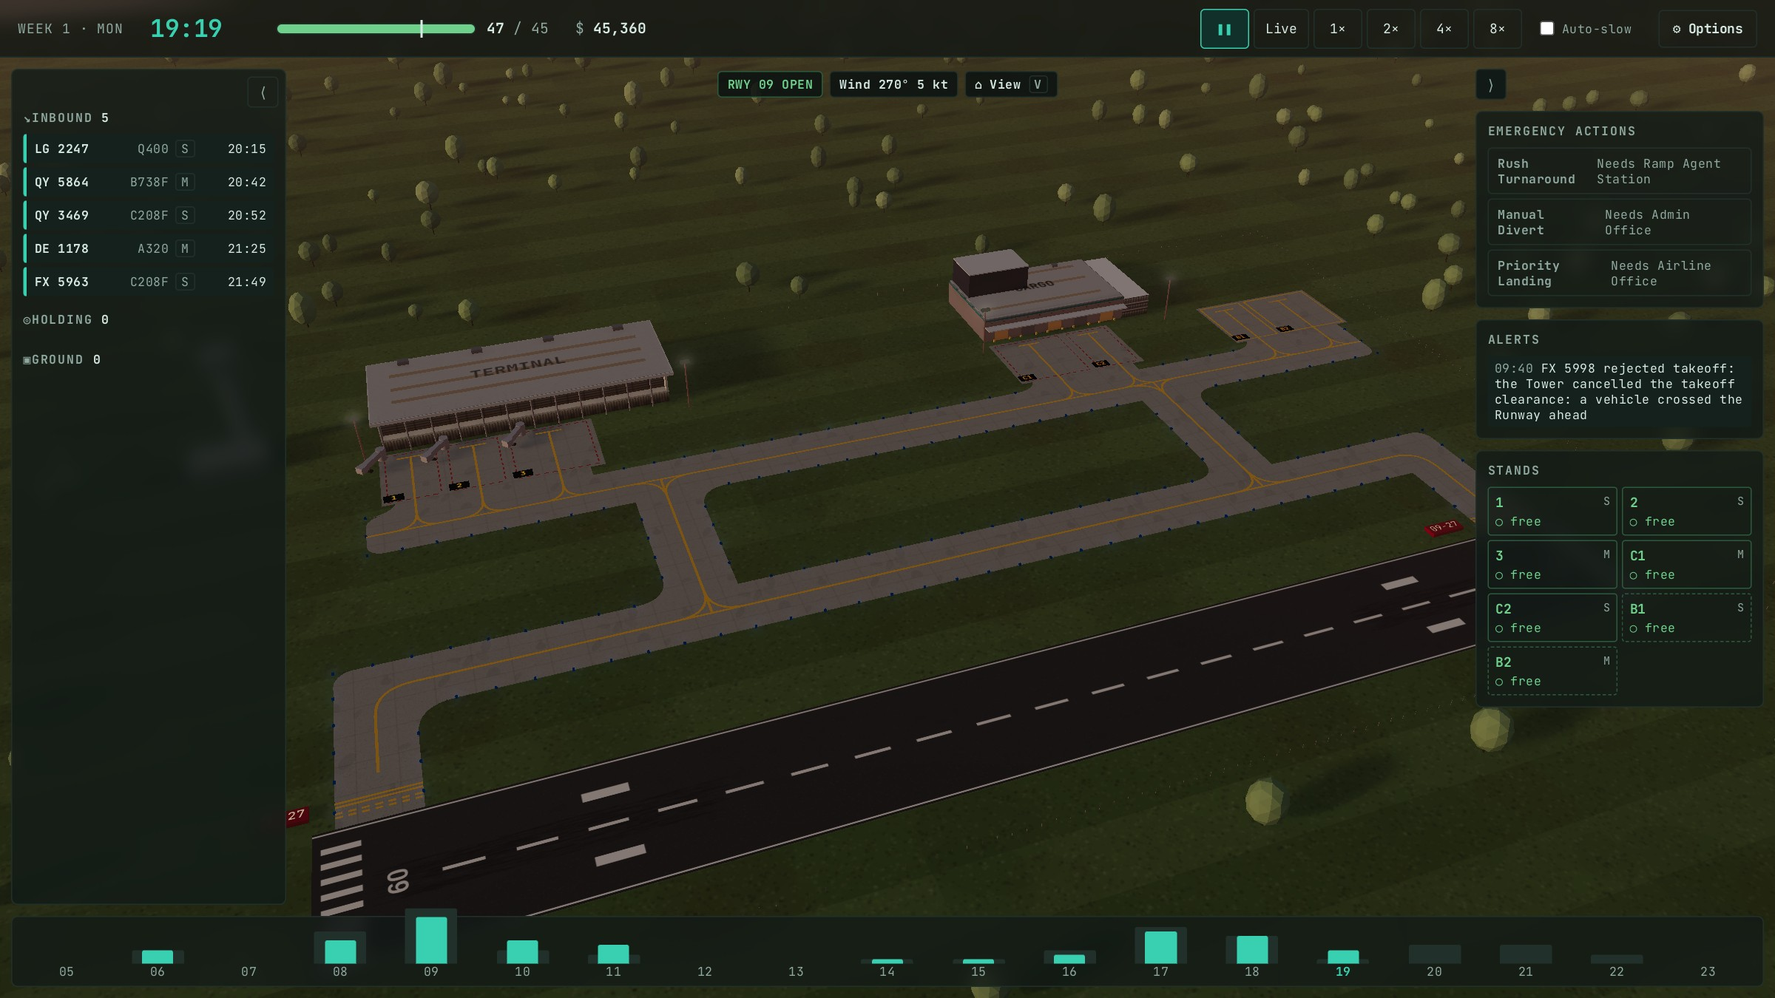
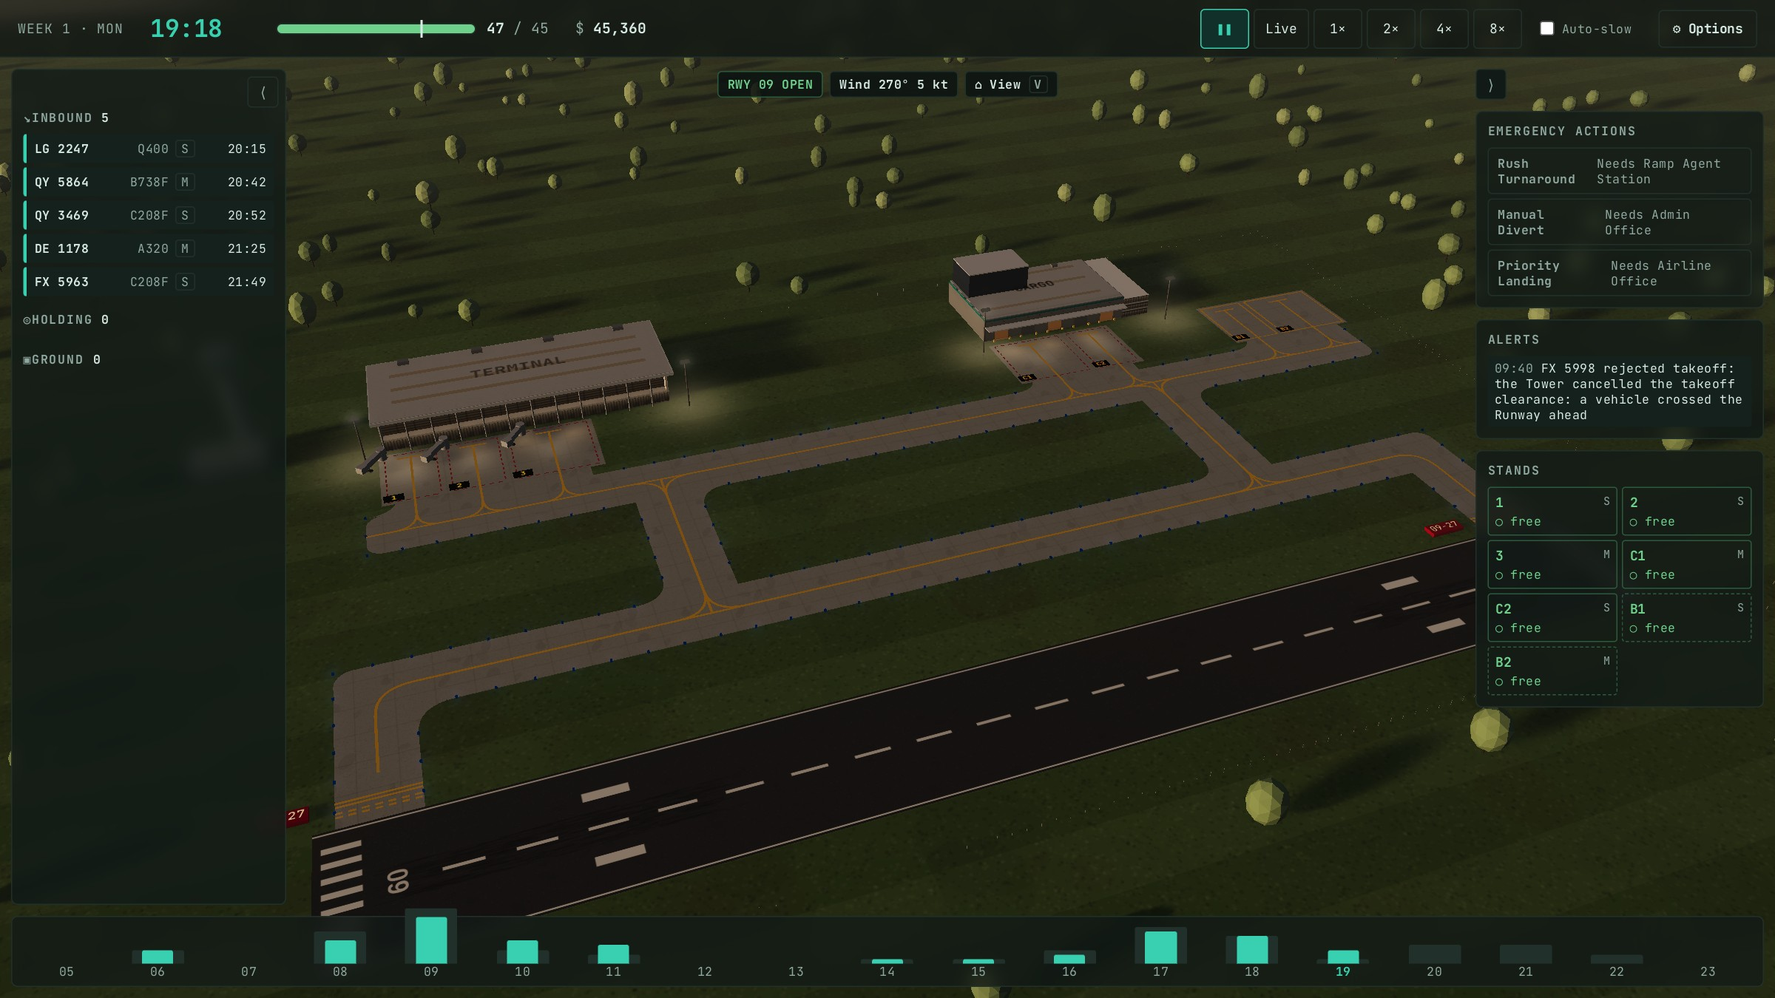
Lighting polish: golden hours, mirror glass by day, light pools at night (#93)
* Lighting polish: golden hours, mirror glass by day, light pools at night

- Sun follows its height for golden hour (smooth through 07:30 and 18:30), sets lower for long shadows and stays
  strong; sky fill is cooler and weaker so shadows read; haze is pale (peach at golden hour), not brown.
- The sun now also moves while darkness stays the same (it was frozen through full daylight).
- Glass façades and the Tower cab are tinted mirror glass with matt bars and slabs (metallic/roughness map), so
  they show the sky by day; the lit interior still glows at night.
- Painted pools of light at night under every flood mast, on Stands and along building fronts (no extra lights).
- game-design.md: Lighting and Day and night updated.

Claude-Session: https://claude.ai/code/session_017hX3QnC5DmNMeZd9roDefn

* Update README screenshots

* Light pools: colour painted into the texture; glass reflects lighter ground

A StandardMaterial adds its emissive colour evenly to the emissive texture, so the pools showed as squares; the
colour is now in each pool texture. The reflected dome below the horizon only turns part way to ground colour, so
glass seen from above still reads as sky. Golden hour a little stronger and brighter.

Claude-Session: https://claude.ai/code/session_017hX3QnC5DmNMeZd9roDefn

* Update README screenshots

* Glass a little lighter; docs on the reflected sky below the horizon

Claude-Session: https://claude.ai/code/session_017hX3QnC5DmNMeZd9roDefn
[…]

diff --git a/src/render/view.ts b/src/render/view.ts
@@ -12,6 +12,7 @@ import { daylight, NIGHT_DARKNESS } from '../sim/clock';
 import { TILE_SIZE, type AirportLayout, type TileRect } from '../sim/layout';
 import { AircraftLayer } from './aircraftLayer';
 import { buildAirfield, type Airfield } from './airfield';
+import { buildLightPools, type LightPools } from './lightPools';
 import { canvasTexture } from './textures';
 
 const T = TILE_SIZE;
@@ -41,6 +42,7 @@ export class AirportView {
   private readonly probe: ReflectionProbe | null;
   private ssao: SSAO2RenderingPipeline | null = null;
   private floods: PointLight[] = [];
+  private pools: LightPools | null = null;
   /** Live Day: where "Reset view" goes back to; null until the first framing. */
   private home: TileRect | null = null;
   private moved = false;
@@ -49,8 +51,9 @@ export class AirportView {
   private layout: AirportLayout | null = null;
   private view = { x: 0, z: 0, h: 400 };
   private area: TileRect | null = null;
-  private light = { darkness: -1, warmth: -1 };
+  private light = { darkness: -1, warmth: -1, hour: -1 };
   private probeDarkness = -1;
+  private probeGolden = -1;
   private tier = 0;
   /** A quality level fixed by `?quality=` or setQuality(): no automatic stepping down. */
   private lockedTier: number | null = null;
@@ -171,6 +174,8 @@ export class AirportView {
     const s = this.scene;
     const before = new Set<object>([...s.meshes, ...s.materials, ...s.textures, ...s.transformNodes]);
     this.airfield = buildAirfield({ scene: s, caster: (m) => this.shadows.addShadowCaster(m, false), glow: (m) => this.glow.addIncludedOnlyMesh(m) }, layout);
+    // painted pools of light on the ground at night (under every flood mast, on Stands, along building fronts)
+    this.pools = this.mode === 'live' ? buildLightPools(s, layout, this.airfield.floods) : null;
     this.airfieldItems = [...s.meshes, ...s.materials, ...s.textures, ...s.transformNodes].filter((x) => !before.has(x));
     this.aircraft.bridges = this.airfield.bridges;
     // floodlights over the aprons (a few real lights; the other masts only glow)
@@ -183,7 +188,7 @@ export class AirportView {
       light.intensity = 0;
       return light;
     });
-    this.light = { darkness: -1, warmth: -1 };
+    this.light = { darkness: -1, warmth: -1, hour: -1 };
     this.applyLight(this.lastMinute);
   }
 
@@ -218,18 +223,24 @@ export class AirportView {
   private applyLight(minute: number | null): number {
     const { darkness, warmth } = minute === null ? { darkness: 0, warmth: 0 } : daylight(minute);
     const aircraftGlow = clamp((darkness - 0.1) / 0.25, 0, 1);
-    if (Math.abs(darkness - this.light.darkness) < 0.002 && Math.abs(warmth - this.light.warmth) < 0.01) return darkness;
-    this.light = { darkness, warmth };
-    const day = 1 - darkness / NIGHT_DARKNESS;
     const hour = minute === null ? 13 : minute / 60;
+    // the sun also moves through the day while darkness and warmth stay put
+    const same = Math.abs(darkness - this.light.darkness) < 0.002 && Math.abs(warmth - this.light.warmth) < 0.01 && Math.abs(hour - this.light.hour) < 0.05;
+    if (same) return darkness;
+    this.light = { darkness, warmth, hour };
+    const day = 1 - darkness / NIGHT_DARKNESS;
     const arc = clamp((hour - 6) / 14, 0, 1);
     const az = Math.PI * arc;
-    const el = (10 + 48 * Math.sin(Math.PI * arc)) * (Math.PI / 180);
-    const sunCol = Color3.Lerp(new Color3(1, 0.97, 0.92), new Color3(1, 0.58, 0.32), warmth);
+    const elDeg = 5 + 53 * Math.sin(Math.PI * arc);
+    const el = elDeg * (Math.PI / 180);
+    // golden hour: how low the sun is (follows its height, so the light changes smoothly through sunrise and sunset)
+    const golden = minute === null ? 0 : clamp((34 - elDeg) / 22, 0, 1) ** 0.8;
+    const sunCol = Color3.Lerp(new Color3(1, 0.96, 0.9), new Color3(1, 0.66, 0.36), golden);
     if (day > 0.15) {
       this.sun.direction = new Vector3(-Math.cos(az) * Math.cos(el), -Math.sin(el), Math.sin(az) * Math.cos(el)).normalize();
       this.sun.diffuse = sunCol;
-      this.sun.intensity = 3.1 * day ** 1.3;
+      // a low sun stays strong (long, crisp shadows; golden light on the walls that face it)
+      this.sun.intensity = 3.5 * day ** 1.2 * (1 + 0.45 * golden);
     } else {
       this.sun.direction = new Vector3(0.33, -0.56, 0.46).normalize();
       this.sun.diffuse = new Color3(0.55, 0.65, 0.95);
@@ -237,34 +248,46 @@ export class AirportView {
     }
     this.sun.specular = this.sun.diffuse;
     this.sun.position = this.sun.direction.scale(-1500);
-    const zenith = Color3.Lerp(new Color3(0.012, 0.018, 0.045), new Color3(0.22, 0.45, 0.82), day);
-    let horizon = Color3.Lerp(new Color3(0.035, 0.045, 0.09), new Color3(0.72, 0.81, 0.92), day);
-    horizon = Color3.Lerp(horizon, new Color3(0.98, 0.56, 0.34), warmth * 0.7);
-    this.hemi.intensity = 0.08 + 0.22 * day;
-    this.hemi.diffuse = Color3.Lerp(zenith, Color3.White(), 0.55);
-    this.hemi.groundColor = Color3.Lerp(new Color3(0.05, 0.06, 0.05), new Color3(0.35, 0.38, 0.3), day);
-    this.scene.environmentIntensity = 0.15 + 0.85 * day;
-    this.scene.clearColor = new Color4(horizon.r, horizon.g, horizon.b, 1);
-    this.scene.fogColor = horizon.clone();
+    // the sky stays blue overhead at sunrise and sunset (a cool fill in the shadows); only the horizon glows gold
+    const zenith = Color3.Lerp(new Color3(0.012, 0.018, 0.045), Color3.Lerp(new Color3(0.2, 0.44, 0.84), new Color3(0.2, 0.36, 0.7), golden), day);
+    const glowGold = new Color3(1, 0.74, 0.48).scale(0.45 + 0.55 * day);
+    let horizon = Color3.Lerp(new Color3(0.035, 0.045, 0.09), new Color3(0.7, 0.8, 0.93), day);
+    horizon = Color3.Lerp(horizon, glowGold, golden * 0.75);
+    // haze: pale and clean (a light peach at golden hour, never brown), a little thinner when the sun is low
+    const hazeDay = Color3.Lerp(new Color3(0.74, 0.81, 0.91), new Color3(0.93, 0.82, 0.72), golden * 0.85);
+    const haze = Color3.Lerp(new Color3(0.03, 0.04, 0.08), hazeDay, day ** 0.8);
+    this.hemi.intensity = 0.05 + 0.15 * day;
+    this.hemi.diffuse = Color3.Lerp(zenith, Color3.White(), 0.4);
+    this.hemi.groundColor = Color3.Lerp(new Color3(0.04, 0.05, 0.04), new Color3(0.3, 0.32, 0.26), day);
+    // less sky fill than sun, more so when the sun is low: deeper shadows, more contrast
+    this.scene.environmentIntensity = 0.12 + day * (0.68 - 0.2 * golden);
+    this.scene.clearColor = new Color4(haze.r, haze.g, haze.b, 1);
+    this.scene.fogColor = haze;
+    this.scene.fogDensity = 0.00035 * (1 - 0.25 * golden * day);
     for (const f of this.floods) f.intensity = 1.6 * aircraftGlow;
+    this.pools?.setStrength(aircraftGlow);
+    const ground = Color3.Lerp(new Color3(0.02, 0.025, 0.03), new Color3(0.42, 0.46, 0.4), day);
     const pos = this.dome.getVerticesData('position');
     if (pos) {
       const col = new Float32Array((pos.length / 3) * 4);
       for (let i = 0; i < pos.length / 3; i++) {
         const y = pos[i * 3 + 1]! / 3500;
-        const c = Color3.Lerp(horizon, zenith, Math.pow(clamp(y, 0, 1), 0.45));
+        // below the horizon the dome turns part way to a dull ground colour (glass seen from above still reads as sky)
+        const c = y >= 0 ? Color3.Lerp(horizon, zenith, Math.pow(y, 0.45)) : Color3.Lerp(horizon, ground, 0.45 * clamp(-y / 0.3, 0, 1));
         col.set([c.r, c.g, c.b, 1], i * 4);
       }
       this.dome.updateVerticesData(VertexBuffer.ColorKind, col);
     }
-    if (this.probe && Math.abs(darkness - this.probeDarkness) > 0.05) {
+    if (this.probe && (Math.abs(darkness - this.probeDarkness) > 0.05 || Math.abs(golden - this.probeGolden) > 0.05)) {
       this.probe.cubeTexture.resetRefreshCounter();
       this.probeDarkness = darkness;
+      this.probeGolden = golden;
     }
     for (const l of this.airfield?.lights ?? []) l.mat.emissiveColor = l.colour.scale(l.day + (1 - l.day) * aircraftGlow);
     for (const g of this.airfield?.litGlass ?? []) g.emissiveColor = Color3.White().scale(1.3 * aircraftGlow);
     this.glow.intensity = 0.35 + 0.9 * aircraftGlow;
-    this.pipeline.imageProcessing.exposure = 1 + 0.4 * aircraftGlow;
+    this.pipeline.imageProcessing.exposure = 1 + 0.4 * aircraftGlow + 0.12 * golden * day;
+    this.pipeline.imageProcessing.contrast = 1.12 + 0.08 * day;
     return darkness;
   }
 

diff --git a/src/render/lightPools.ts b/src/render/lightPools.ts
@@ -1,0 +1,120 @@
+/**
+ * Pools of light on the ground at night: painted, not real lights, so they cost almost nothing. A wide pool under
+ * every flood mast, a softer one on every Stand, and a row of small warm pools along each side of a building that
+ * meets paving (doors, canopies and lit windows spilling onto the apron). They are flat on the ground, so aircraft,
+ * vehicles and buildings standing on them hide them as usual.
+ */
+import { Color3, Engine, Material, Mesh, MeshBuilder, StandardMaterial, type Scene, type Vector3 } from '@babylonjs/core';
+import { TILE_SIZE, type AirportLayout, type TileRect } from '../sim/layout';
+import { thinInstances, type Place } from './geometry';
+import { canvasTexture } from './textures';
+
+const T = TILE_SIZE;
+/** Just above the paint on the aprons. */
+const HEIGHT = 0.26;
+
+/** One kind of pool: its colour (with how strong it is at full night) and where it lies (x, z, radius in world units). */
+interface PoolKind {
+  readonly name: string;
+  readonly colour: string;
+  readonly strength: number;
+  readonly at: ReadonlyArray<readonly [number, number, number]>;
+}
+
+export interface LightPools {
+  /** 0 by day (hidden) … 1 at full night. */
+  setStrength(k: number): void;
+}
+
+const BUILDINGS = new Set(['terminal', 'cargoHub', 'atcTower', 'supportBuilding']);
+const PAVED = new Set(['stand', 'holdingBay', 'taxiway']);
+
+/** Pools along every side of a building that touches a Stand, Holding Bay or Taxiway: one about every 2 tiles. */
+function frontPools(b: TileRect, layout: AirportLayout): Array<[number, number, number]> {
+  const out: Array<[number, number, number]> = [];
+  const overlap = (a0: number, a1: number, b0: number, b1: number) => [Math.max(a0, b0), Math.min(a1, b1)] as const;
+  const row = (x0: number, z0: number, x1: number, z1: number) => {
+    const len = Math.hypot(x1 - x0, z1 - z0);
+    const n = Math.max(1, Math.round(len / (2 * T)));
+    for (let i = 0; i < n; i++) {
+      const t = (i + 0.5) / n;
+      out.push([x0 + (x1 - x0) * t, z0 + (z1 - z0) * t, 1.4 * T]);
+    }
+  };
+  const out0 = 0.7 * T; // pools lie just in front of the wall
+  for (const o of layout.structures) {
+    if (!PAVED.has(o.kind)) continue;
+    const [x0, x1] = overlap(b.x, b.x + b.w, o.x, o.x + o.w);
+    const [y0, y1] = overlap(b.y, b.y + b.h, o.y, o.y + o.h);
+    if (x1 > x0 && o.y === b.y + b.h) row(x0 * T, -(b.y + b.h) * T - out0, x1 * T, -(b.y + b.h) * T - out0);
+    if (x1 > x0 && o.y + o.h === b.y) row(x0 * T, -b.y * T + out0, x1 * T, -b.y * T + out0);
+    if (y1 > y0 && o.x === b.x + b.w) row((b.x + b.w) * T + out0, -y0 * T, (b.x + b.w) * T + out0, -y1 * T);
+    if (y1 > y0 && o.x + o.w === b.x) row(b.x * T - out0, -y0 * T, b.x * T - out0, -y1 * T);
+  }
+  return out;
+}
+
+export function buildLightPools(scene: Scene, layout: AirportLayout, floods: readonly Vector3[]): LightPools {
+  // a soft round pool in its colour: bright in the middle, fading smoothly to nothing at the rim (the colour is
+  // painted in, as a material's own emissive colour would be added evenly over the whole square)
+  const poolTexture = (name: string, hex: string) =>
+    canvasTexture(scene, `light-pool-${name}`, 128, 128, (g, W, H) => {
+      const c = Color3.FromHexString(hex);
+      const rgb = (k: number) => `rgb(${Math.round(c.r * 255 * k)},${Math.round(c.g * 255 * k)},${Math.round(c.b * 255 * k)})`;
+      g.fillStyle = '#000';
+      g.fillRect(0, 0, W, H);
+      const grd = g.createRadialGradient(W / 2, H / 2, 0, W / 2, H / 2, W / 2 - 1);
+      grd.addColorStop(0, rgb(1));
+      grd.addColorStop(0.25, rgb(0.8));
+      grd.addColorStop(0.55, rgb(0.4));
+      grd.addColorStop(0.8, rgb(0.12));
+      grd.addColorStop(1, rgb(0));
+      g.fillStyle = grd;
+      g.fillRect(0, 0, W, H);
+    }, { clamp: true });
+  const kinds: PoolKind[] = [
+    { name: 'flood', colour: '#ffe6bd', strength: 0.55, at: floods.map((p) => [p.x, p.z, 28] as const) },
+    {
+      name: 'stand',
+      colour: '#ffe9c8',
+      strength: 0.3,
+      at: layout.stands.map((s) => [(s.x + s.w / 2) * T, -(s.y + s.h / 2) * T, 0.6 * Math.max(s.w, s.h) * T] as const),
+    },
+    {
+      name: 'front',
+      colour: '#ffcf8f',
+      strength: 0.45,
+      at: layout.structures.filter((s) => BUILDINGS.has(s.kind)).flatMap((b) => frontPools(b, layout)),
+    },
+  ];
+  const parts: Array<{ mat: StandardMaterial; mesh: Mesh; strength: number }> = [];
+  for (const k of kinds) {
+    if (!k.at.length) continue;
+    const mat = new StandardMaterial(`pool-${k.name}`, scene);
+    mat.disableLighting = true;
+    mat.diffuseColor = Color3.Black();
+    mat.specularColor = Color3.Black();
+    mat.emissiveTexture = poolTexture(k.name, k.colour);
+    mat.emissiveColor = Color3.Black();
+    // added on top of what is already drawn (light, never a dark edge); fog would add its own colour
+    mat.alphaMode = Engine.ALPHA_ADD;
+    mat.transparencyMode = Material.MATERIAL_ALPHABLEND;
+    mat.disableDepthWrite = true;
+    mat.fogEnabled = false;
+    mat.alpha = 0;
+    const disc = MeshBuilder.CreateGround(`pool-${k.name}`, { width: 2, height: 2 }, scene);
+    disc.material = mat;
+    disc.isPickable = false;
+    const mesh = thinInstances(disc, k.at.map(([x, z, r]) => [x, HEIGHT, z, r, 1, r] as Place));
+    mesh.setEnabled(false);
+    parts.push({ mat, mesh, strength: k.strength });
+  }
+  return {
+    setStrength(k: number) {
+      for (const p of parts) {
+        p.mat.alpha = p.strength * k;
+        p.mesh.setEnabled(k > 0.01);
+      }
+    },
+  };
+}

diff --git a/src/render/buildings.ts b/src/render/buildings.ts
@@ -153,6 +153,12 @@ interface GlassSpec {
   bottom?: string;
 }
 
+/** A glazing colour lightened toward pale blue-grey by `k` (0…1), as the tint of mirror glass. */
+function mirrorTint(hex: string, k: number): string {
+  const c = Color3.Lerp(Color3.FromHexString(hex), Color3.FromHexString('#dfe8ef'), k);
+  return c.toHexString();
+}
+
 /** A glass curtain wall `w` metres long: reflective tinted glass with bars, and a lit interior behind it at night. */
 function glass(kit: BuildingKit, name: string, w: number, o: GlassSpec): PBRMaterial {
   const PX = 8;
@@ -168,16 +174,28 @@ function glass(kit: BuildingKit, name: string, w: number, o: GlassSpec): PBRMate
     g.fillStyle = colour;
     for (const f of o.floors ?? []) g.fillRect(0, H - Math.round(f * PX) - Math.round(0.9 * PX), W, Math.round(0.9 * PX));
   };
-  const m = pbr(kit.scene, `glass-${name}`, '#ffffff', 0.06, 0.35);
+  // the panes are a tinted mirror (metallic, smooth: they show the sky, and nothing of the sun's diffuse light);
+  // bars and floor slabs are matt paint. A metallic/roughness map tells them apart (green: roughness, blue: metal).
+  const m = pbr(kit.scene, `glass-${name}`, '#ffffff', 1, 1);
   m.albedoTexture = canvasTexture(kit.scene, `glass-${name}`, bw, bh, (g, W, H) => {
     const grd = g.createLinearGradient(0, 0, 0, H);
-    grd.addColorStop(0, o.top ?? '#5a7389');
-    grd.addColorStop(1, o.bottom ?? '#2a3a48');
+    // as a mirror's tint the glazing colours are lightened (a dark tint would hide the sky it reflects)
+    grd.addColorStop(0, mirrorTint(o.top ?? '#5a7389', 0.65));
+    grd.addColorStop(1, mirrorTint(o.bottom ?? '#2a3a48', 0.5));
     g.fillStyle = grd;
     g.fillRect(0, 0, W, H);
     bars(g, W, H, '#2b3138');
     slabs(g, W, H, o.slab ?? '#c9c4b8');
   }, { u: w / o.bay });
+  m.metallicTexture = canvasTexture(kit.scene, `glass-${name}-mr`, bw, bh, (g, W, H) => {
+    g.fillStyle = 'rgb(0,14,235)';
+    g.fillRect(0, 0, W, H);
+    bars(g, W, H, 'rgb(0,120,140)');
+    slabs(g, W, H, 'rgb(0,200,0)');
+  }, { u: w / o.bay });
+  m.useRoughnessFromMetallicTextureGreen = true;
+  m.useMetallnessFromMetallicTextureBlue = true;
+  m.useRoughnessFromMetallicTextureAlpha = false;
   const r = rng(o.seed ?? 7);
   const [wr, wg, wb] = o.warm ?? [255, 214, 160];
   m.emissiveTexture = canvasTexture(kit.scene, `glass-${name}-lit`, bw, bh, (g, W, H) => {
@@ -462,11 +480,12 @@ export function buildTower(kit: BuildingKit, s: TileRect, front: Facing): void {
   f.cyl(1, 6, sx, H, sz, M.offWhite, { top: 15, bottom: 7.5, tess: 32 });
   f.cyl(15.2, 1.4, sx, H + 6, sz, glowing(kit, `tower-ring-${s.x}-${s.y}`, '#1d262f', '#c8b496'), { tess: 32 });
   f.cyl(15.4, 0.6, sx, H + 7.4, sz, M.fascia, { tess: 32 });
-  const cab = pbr(kit.scene, `tower-cab-${s.x}-${s.y}`, '#ffffff', 0.05, 0.4);
+  // green-tinted mirror glass (it shows the sky by day); the mullions are dark
+  const cab = pbr(kit.scene, `tower-cab-${s.x}-${s.y}`, '#ffffff', 0.06, 0.92);
   cab.albedoTexture = canvasTexture(kit.scene, `tower-cab-${s.x}-${s.y}`, 192, 32, (g, W, H2) => {
     const grd = g.createLinearGradient(0, 0, 0, H2);
-    grd.addColorStop(0, '#5f8f84');
-    grd.addColorStop(1, '#1c3a34');
+    grd.addColorStop(0, '#a8cfc4');
+    grd.addColorStop(1, '#5d8f83');
     g.fillStyle = grd;
     g.fillRect(0, 0, W, H2);
     g.fillStyle = '#2b3138';

diff --git a/docs/game-design.md b/docs/game-design.md
@@ -297,7 +297,12 @@ A reward for winning a Week that also steers the rest of the Run (`contracts.ts 
   (Controls). Scale: a tile is 16 m, so Medium aircraft fit their 3-tile Stands at real size.
 - **Lighting:** physically based materials (painted metal with a clear coat, glass, concrete, grass), a sun that moves
   from east to west through the Day and casts real shadows, sky reflections on paint and glass, tone mapping and a
-  soft glow round lights; at the best quality also soft contact shadows where things meet (ambient occlusion).
+  soft glow round lights; at the best quality also soft contact shadows where things meet (ambient occlusion). The sun
+  is the strong light and the sky only a weaker, cooler fill, so sunlit and shaded sides differ clearly. Glazing is
+  tinted mirror glass: by day it shows the sky (lighter towards the top of each pane, pale blue-grey on the façades,
+  pale green on the Tower cab) with its bars and floor slabs as matt paint; at night the lit interior shows through.
+  The sky the scene reflects is blue overhead, coloured at the horizon (gold at sunrise and sunset) and turns part
+  way to a dull ground colour below the horizon (so glass seen from above still reads as sky).
 - **Ground:** mown grass with trees outside a perimeter fence round everything built. Runways are painted asphalt with
   side stripes, centre line, threshold bars, aiming points, rubber in the touchdown zones and their designators upright
   for the landing pilot. Taxiways are one paved surface of light concrete slabs, the same as the aprons and Stands (only
@@ -339,15 +344,24 @@ A reward for winning a Week that also steers the rest of the Run (`contracts.ts 
     (white tanks with a blue band in a bund wall, a pipe rack and a pump house); De-icing Pad (blue-lined pad, two
     boom trucks, glycol tanks).
   - Flood masts stand at the front corners of Terminals and Cargo Hubs; at night their heads glow and the first four
-    light the apron round them.
+    light the apron round them (real lights, so aircraft and vehicles there are lit too).
 - **Grass strips** look like mown grass, not paving: a lighter green strip with mowing bands across it, white
   boundary markers along both edges and a row at each threshold, small designators, no centre line and never lights
   (the Runway Surface upgrade leaves them grass, and its offer says so when the airport has one).
 - **Runway lights follow the surface:** none on Grass and Asphalt; white edge and green threshold lights when Lit;
   approach lights added with ILS.
 - **Day and night:** during the Live Day the light follows the clock (`clock.ts → daylight`): dark until 05:30, a warm
-  sunrise to 07:30, full daylight until 18:30, low warm evening light to 20:00, dark from 21:00. At night the sun gives
-  way to dim blue moonlight, and lights, lit windows and glass glow. Plan Mode and Build Mode are in daylight.
+  sunrise to 07:30, full daylight until 18:30, low warm evening light to 20:00, dark from 21:00. The sun rises in the
+  east at 06:00 about 5° high, peaks near 58° at 13:00 and sets in the west at 20:00. Golden hour follows the sun's
+  height (strongest below about 12°, gone above about 34°, so roughly 06:00–08:00 and 18:00–20:00): the sunlight turns
+  gold and stays strong, so shadows are long and crisp and the walls facing the sun glow, while the sky overhead stays
+  blue (a cool fill in the shadows) and only the horizon turns gold. The haze in the distance is pale blue by day and a
+  light peach at golden hour (never brown), slightly thinner then; at night it is dark blue. Midday has a little more
+  contrast than the rest of the Day. At night the sun gives way to dim blue moonlight, and lights, lit windows and
+  glass glow, and pools of warm light lie on the ground: a wide one under every flood mast, a softer one on every
+  Stand and a row of small ones along each side of a building that meets paving. The pools are painted on the ground,
+  not real lights (aircraft over them are not lit by them, and anything standing on them hides them); they fade in
+  with the lit windows at dusk and out at dawn. Plan Mode and Build Mode are in daylight.
 - **Aircraft** (`render/aircraftModels.ts`) are 3D models built from each type's real dimensions, with a painted
   livery: Caravan (high wing, nose propeller; the freighter with a belly pod), Q400 (high wing, two propellers,
   T-tail), A320 (rounded nose, sharklets), B737 (pointed nose, split-scimitar winglets), A350 (curled wingtips, dark
